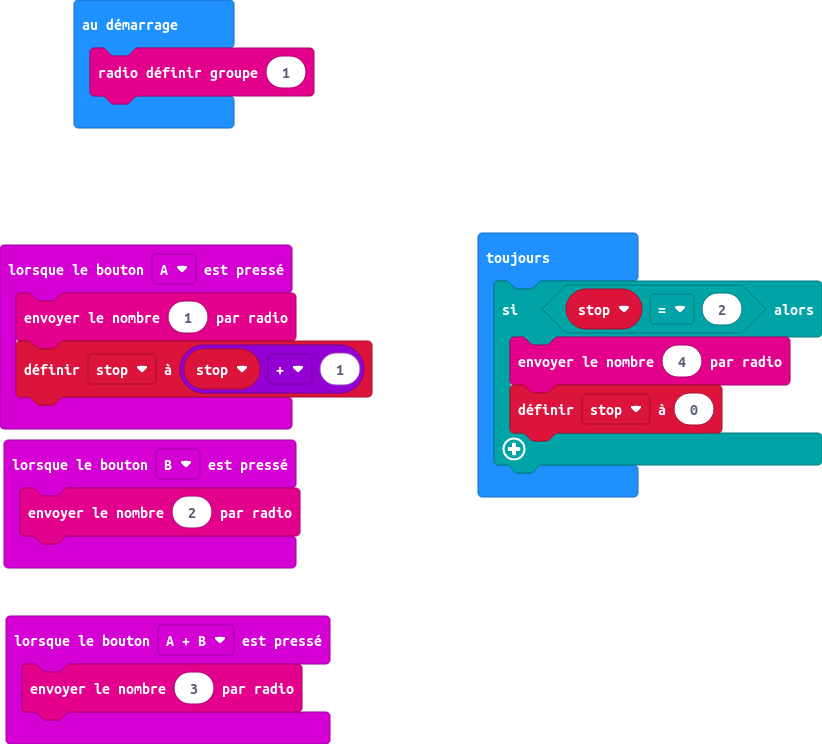
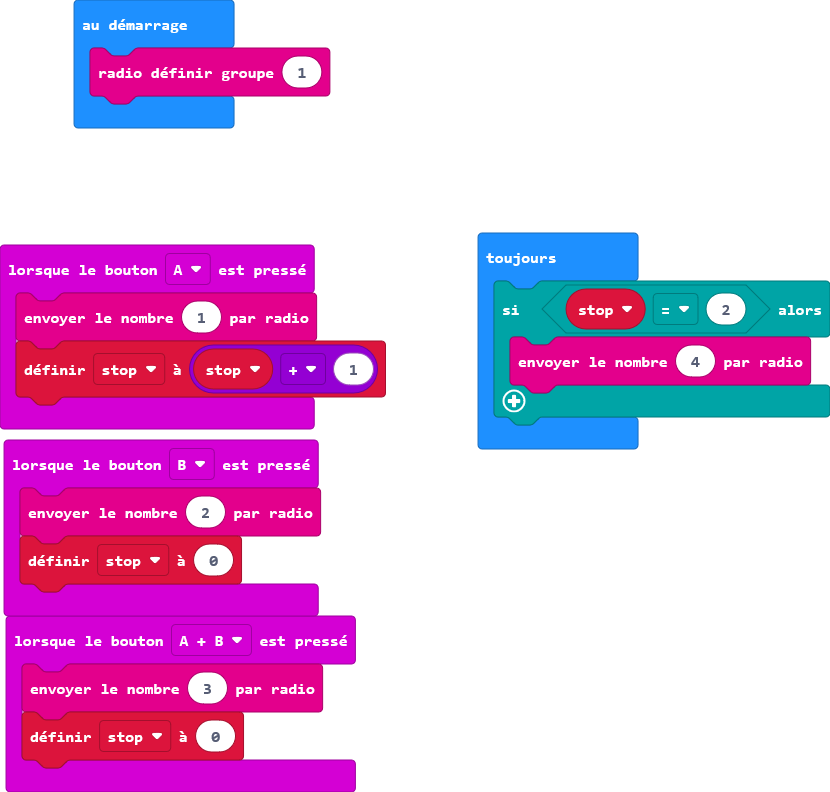
Mise à jour main.blocks, main.ts

diff --git a/main.ts b/main.ts
@@ -4,15 +4,16 @@ input.onButtonPressed(Button.A, function () {
 })
 input.onButtonPressed(Button.AB, function () {
     radio.sendNumber(3)
+    stop = 0
 })
 input.onButtonPressed(Button.B, function () {
     radio.sendNumber(2)
+    stop = 0
 })
 let stop = 0
 radio.setGroup(1)
 basic.forever(function () {
     if (stop == 2) {
         radio.sendNumber(4)
-        stop = 0
     }
 })
